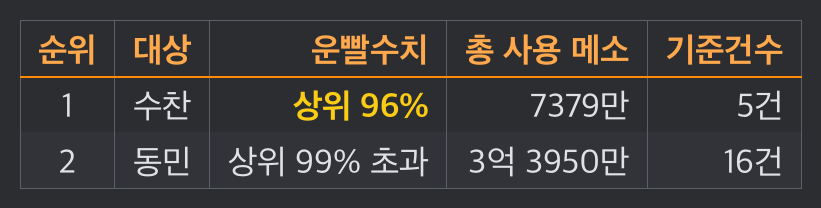
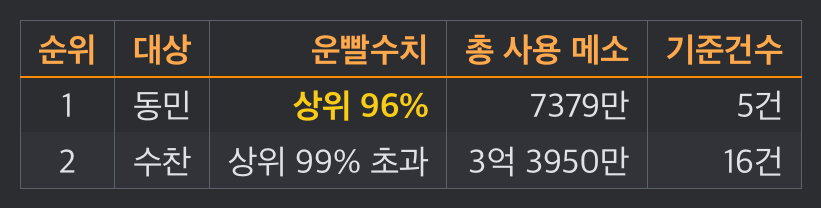
fix: 예시 유저 수찬·동민 역할 맞교환 — 채터를 동민으로
튜토리얼 S1·S6·S9(랜딩 히어로 공유)에서 계속 채팅하는 주인공을 수찬→동민으로,
동민이 맡던 대상·목록 역할은 수찬으로 맞교환(진혁 무변경, 색상은 역할 자리 유지
→ 동민=#e0a030·수찬=#5865f2 로 사이트 전체 일관). 아바타 이니셜 동/수 정합.
이름 박힌 데모샷 3장 재렌더 + 픽스처 3개 스왑(무관 샷은 원복).

Changed region(s): [[0.1523, 0.6923, 0.2436, 0.8654], [0.1523, 0.4327, 0.2436, 0.5769]]

diff --git a/site/components/commandSequenceScripts.tsx b/site/components/commandSequenceScripts.tsx
@@ -224,14 +224,14 @@ export const S6_SCRIPT: Run[] = [
       />
     ),
   },
-  // 3. 느림 · 칩에서 유저1 선택 → 멤버 목록 → @수찬
+  // 3. 느림 · 칩에서 유저1 선택 → 멤버 목록 → @동민
   {
     speed: 'slow',
     cmd: '경험치',
     desc: '레벨 추이 리더보드',
     startAt: 'chips',
     params: expParams({
-      유저1: { p: '유저1', v: '@수찬', pick: 'member' },
+      유저1: { p: '유저1', v: '@동민', pick: 'member' },
     }),
     reply: (
       <RankEmbed
@@ -245,14 +245,14 @@ export const S6_SCRIPT: Run[] = [
       />
     ),
   },
-  // 4. 빠름 · /스펙 유저1:@동민 유저2:@수찬 유저3:@진혁
+  // 4. 빠름 · /스펙 유저1:@수찬 유저2:@동민 유저3:@진혁
   {
     speed: 'fast',
     cmd: '스펙',
     desc: '전투력·스펙 비교',
     params: [
-      { p: '유저1', v: '@동민' },
-      { p: '유저2', v: '@수찬' },
+      { p: '유저1', v: '@수찬' },
+      { p: '유저2', v: '@동민' },
       { p: '유저3', v: '@진혁' },
     ],
     reply: (
@@ -306,7 +306,7 @@ export const S6_SCRIPT: Run[] = [
     reply: (
       <TableEmbed
         title="내 캐릭터 스펙 비교"
-        targets="수찬"
+        targets="동민"
         footer="최신 기준 · NEXON Open API"
         run="mychar_spec"
         alt="/내캐릭터 스펙 비교 카드"
@@ -329,7 +329,7 @@ export const S9_SCRIPT: Run[] = [
     reply: (
       <TableEmbed
         title="스타포스 운빨 비교"
-        targets="수찬 · 동민"
+        targets="동민 · 수찬"
         fields={[
           {
             h: '⚠ 조회 실패 (1명)',
@@ -348,19 +348,19 @@ export const S9_SCRIPT: Run[] = [
       />
     ),
   },
-  // 2. 느림 · 칩에서 대상1 선택 → 멤버 목록 → @동민
+  // 2. 느림 · 칩에서 대상1 선택 → 멤버 목록 → @수찬
   {
     speed: 'slow',
     cmd: '스타포스',
     desc: '스타포스 운빨 비교',
     startAt: 'chips',
     params: starforceParams({
-      대상1: { p: '대상1', v: '@동민', pick: 'member' },
+      대상1: { p: '대상1', v: '@수찬', pick: 'member' },
     }),
     reply: (
       <TableEmbed
         title="스타포스 운빨 비교"
-        targets="동민"
+        targets="수찬"
         fields={[FIELD_ACCOUNT_SUM, FIELD_STARFORCE_SCOPE]}
         footer="2026-06-28 ~ 2026-07-04 · NEXON Open API"
         run="starforce_target"
@@ -377,7 +377,7 @@ export const S9_SCRIPT: Run[] = [
     reply: (
       <TableEmbed
         title="잠재 메소·큐브 비교"
-        targets="동민 · 진혁 · 수찬"
+        targets="수찬 · 진혁 · 동민"
         fields={[FIELD_ACCOUNT_SUM]}
         footer="키 등록자 전원(3명)을 비교했어요 · 2026-06-05 ~ 2026-07-04 · NEXON Open API"
         run="potential_30d"

diff --git a/site/components/CommandSequenceDemo.tsx b/site/components/CommandSequenceDemo.tsx
@@ -65,12 +65,12 @@ function UserLine({ text }: { text: string }) {
   return (
     <div className="mm-chat-line mm-chat-msg">
       <span className="mm-chat-av" style={{ background: '#e0a030' }}>
-        수
+        동
       </span>
       <div className="mm-chat-content">
         <div className="mm-chat-meta">
           <span className="mm-chat-name" style={{ color: '#e0a030' }}>
-            수찬
+            동민
           </span>
         </div>
         <span className="mm-chat-cmd">{text}</span>
@@ -133,10 +133,10 @@ function CommandPopup({ run }: { run: Run }) {
   )
 }
 
-/** 멤버 목록 팝업 캐스트(작업지시서 §3 — 수찬·동민·진혁). */
+/** 멤버 목록 팝업 캐스트(작업지시서 §3 — 동민·수찬·진혁). */
 const MEMBERS = [
-  { n: '수찬', c: '#e0a030' },
-  { n: '동민', c: '#5865f2' },
+  { n: '동민', c: '#e0a030' },
+  { n: '수찬', c: '#5865f2' },
   { n: '진혁', c: '#3ba55d' },
 ]
 
@@ -147,7 +147,7 @@ function pickParamsOf(run: Run): RunParam[] {
 
 /**
  * fill 국면 값 선택 팝업 — pick:'choice' 는 선택지 목록(본서버/챌린저스),
- * pick:'member' 는 멤버 목록(수찬·동민·진혁). 선택될 항목이 하이라이트된다.
+ * pick:'member' 는 멤버 목록(동민·수찬·진혁). 선택될 항목이 하이라이트된다.
  */
 function ValuePicker({ prm }: { prm: RunParam }) {
   const target = prm.v?.replace(/^@/, '')

diff --git a/site/components/TutorialDemos.tsx b/site/components/TutorialDemos.tsx
@@ -19,7 +19,7 @@ function UserCmd({ cmd }: { cmd: string }) {
       <div className="mm-chat-content">
         <div className="mm-chat-meta">
           <span className="mm-chat-name" style={{ color: '#e0a030' }}>
-            수찬
+            동민
           </span>
         </div>
         <span className="mm-chat-cmd">{cmd}</span>
@@ -223,10 +223,10 @@ export function TargetDemo() {
         </div>
       </div>
       <div className="mm-tut-target-col">
-        <span className="mm-chat-cmd">/유니온 대상:@동민</span>
+        <span className="mm-chat-cmd">/유니온 대상:@수찬</span>
         <ArrowDown size={16} strokeWidth={2} className="mm-tut-target-arrow" aria-hidden />
         <div className="mm-tut-target-out">
-          <b>동민</b>의 대표 캐릭터만 비교
+          <b>수찬</b>의 대표 캐릭터만 비교
         </div>
       </div>
     </div>

diff --git a/site/components/DiscordDemo.tsx b/site/components/DiscordDemo.tsx
@@ -28,9 +28,9 @@ type BotItem = { who: 'bot'; reply: React.ReactNode }
 type Item = UserItem | BotItem
 
 const SCRIPT: Item[] = [
-  { who: 'user', author: '수찬', color: '#e0a030', initial: '수', cmd: '/경험치' },
+  { who: 'user', author: '동민', color: '#e0a030', initial: '동', cmd: '/경험치' },
   { who: 'bot', reply: <LeaderboardEmbed rows={5} /> },
-  { who: 'user', author: '동민', color: '#5865f2', initial: '동', cmd: '/유니온' },
+  { who: 'user', author: '수찬', color: '#5865f2', initial: '수', cmd: '/유니온' },
   { who: 'bot', reply: <UnionMini /> },
 ]
 
